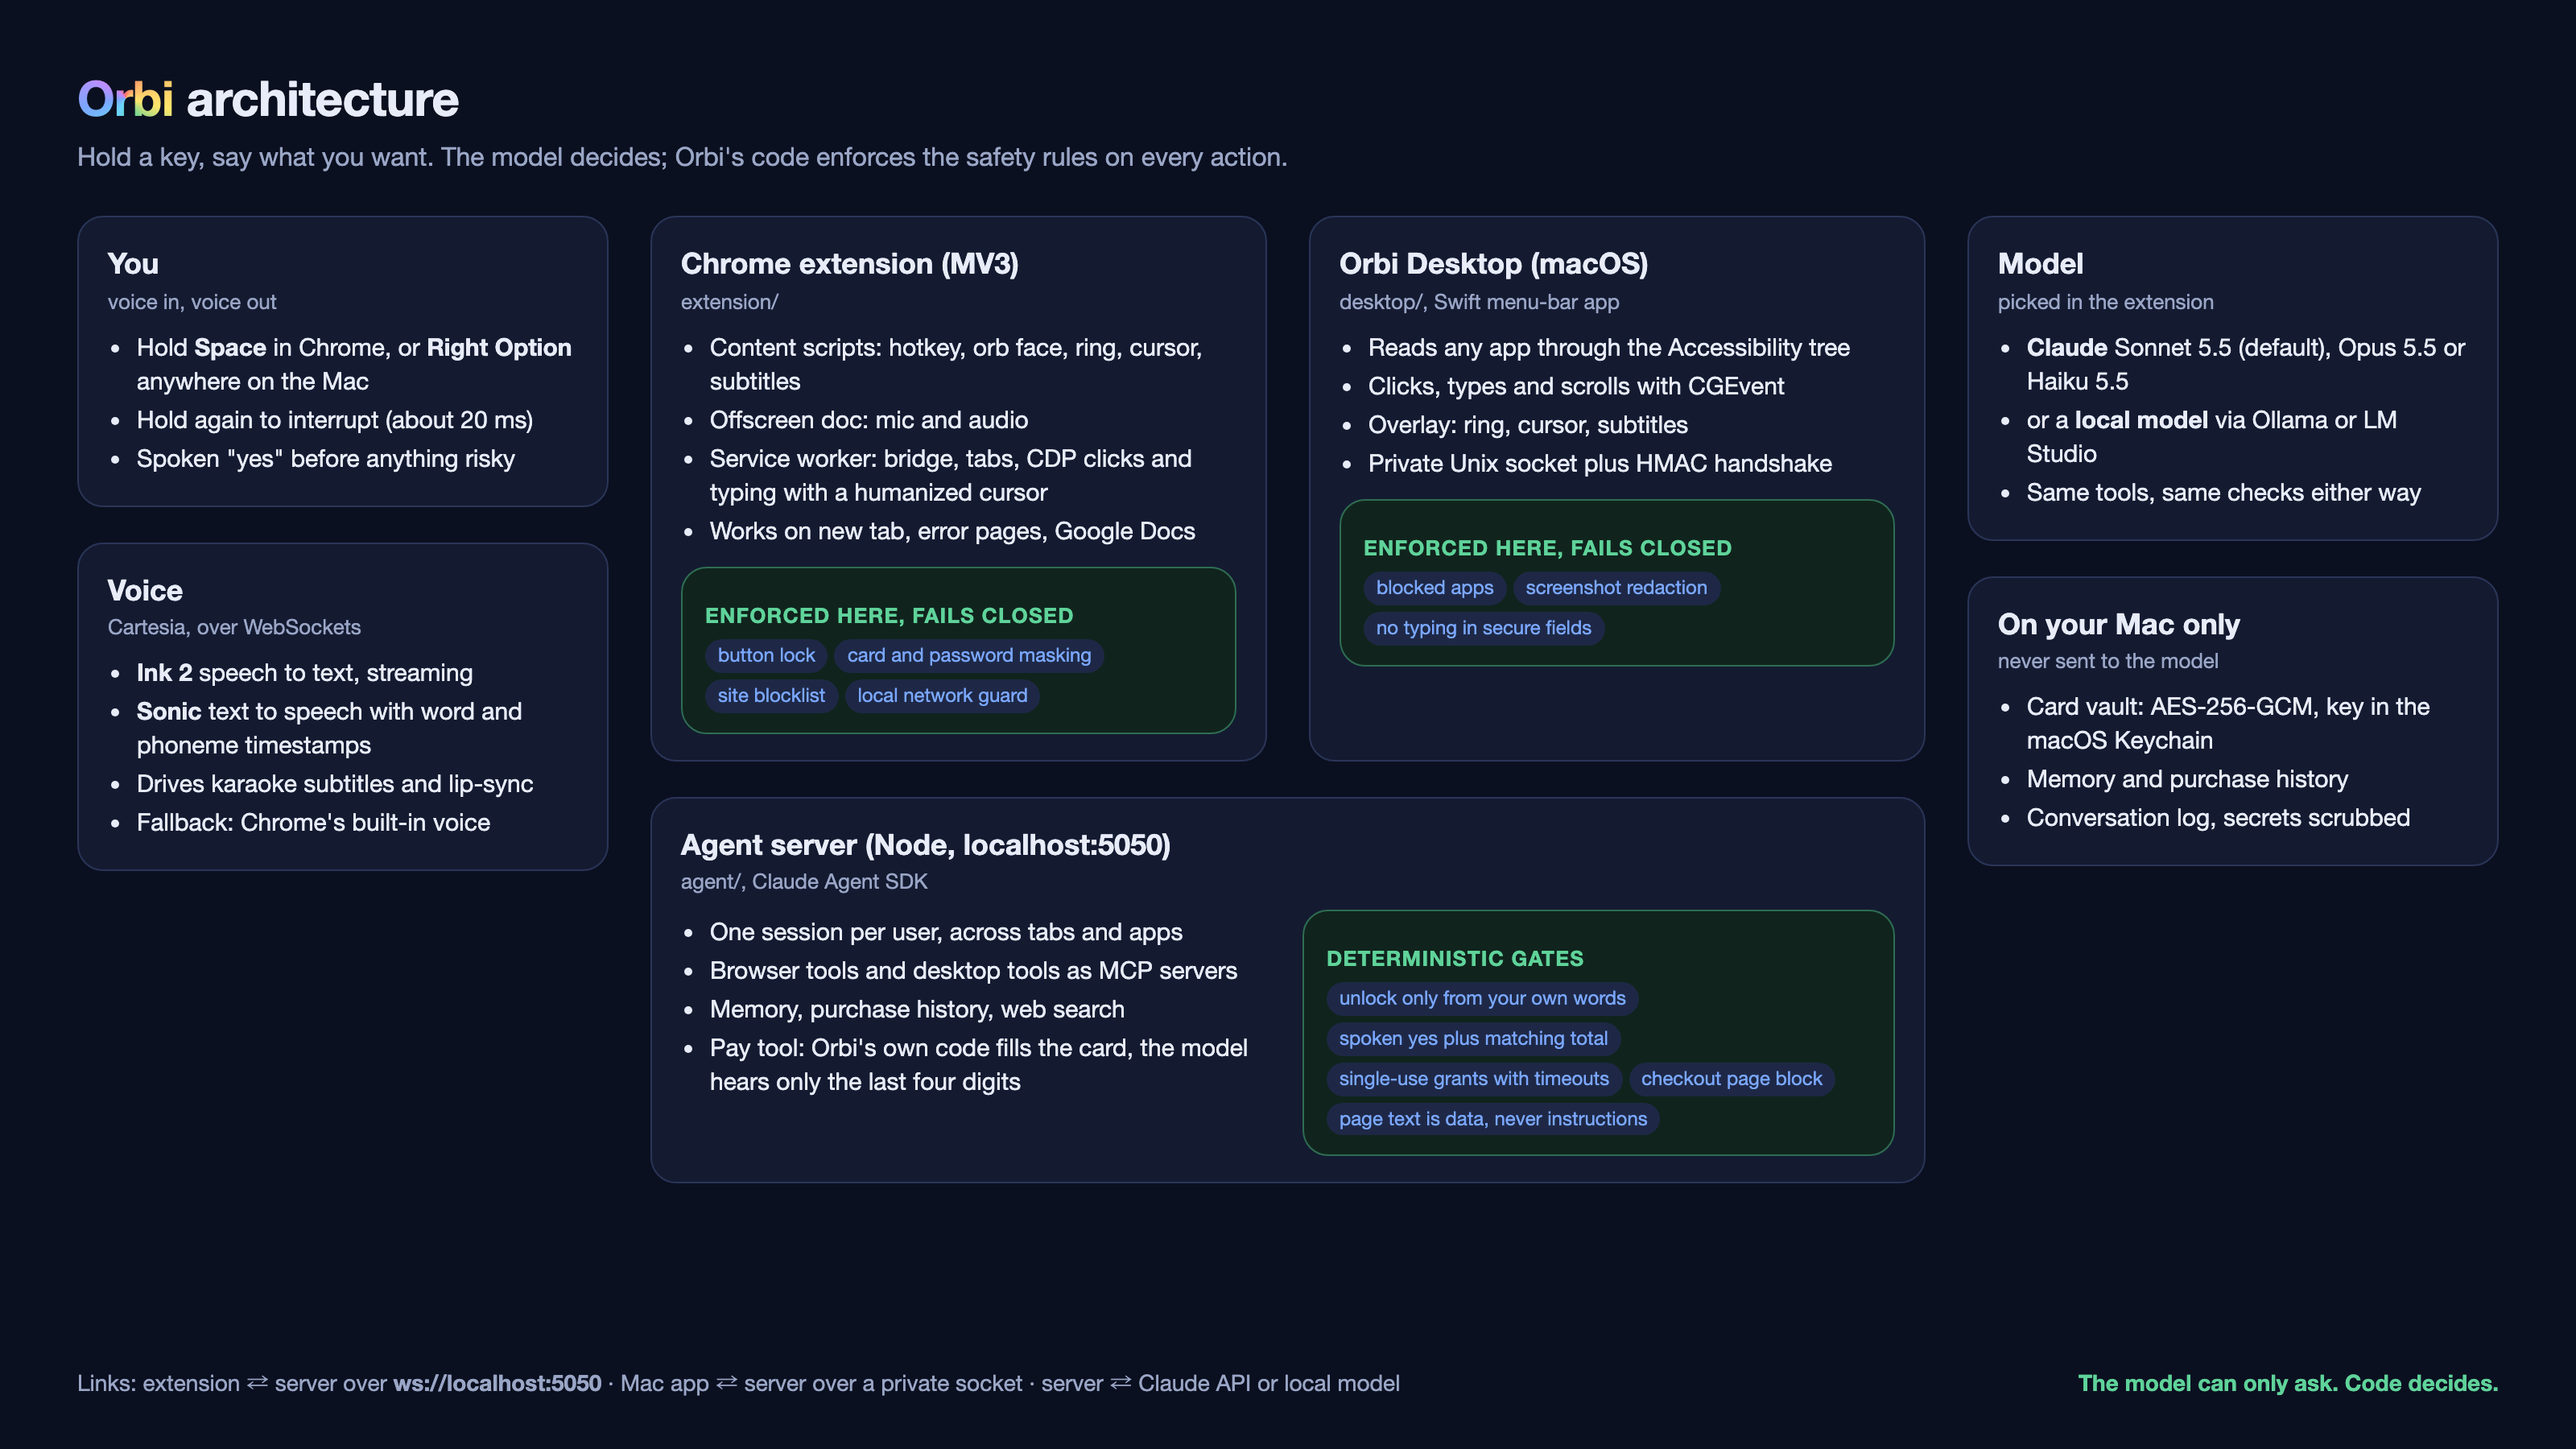
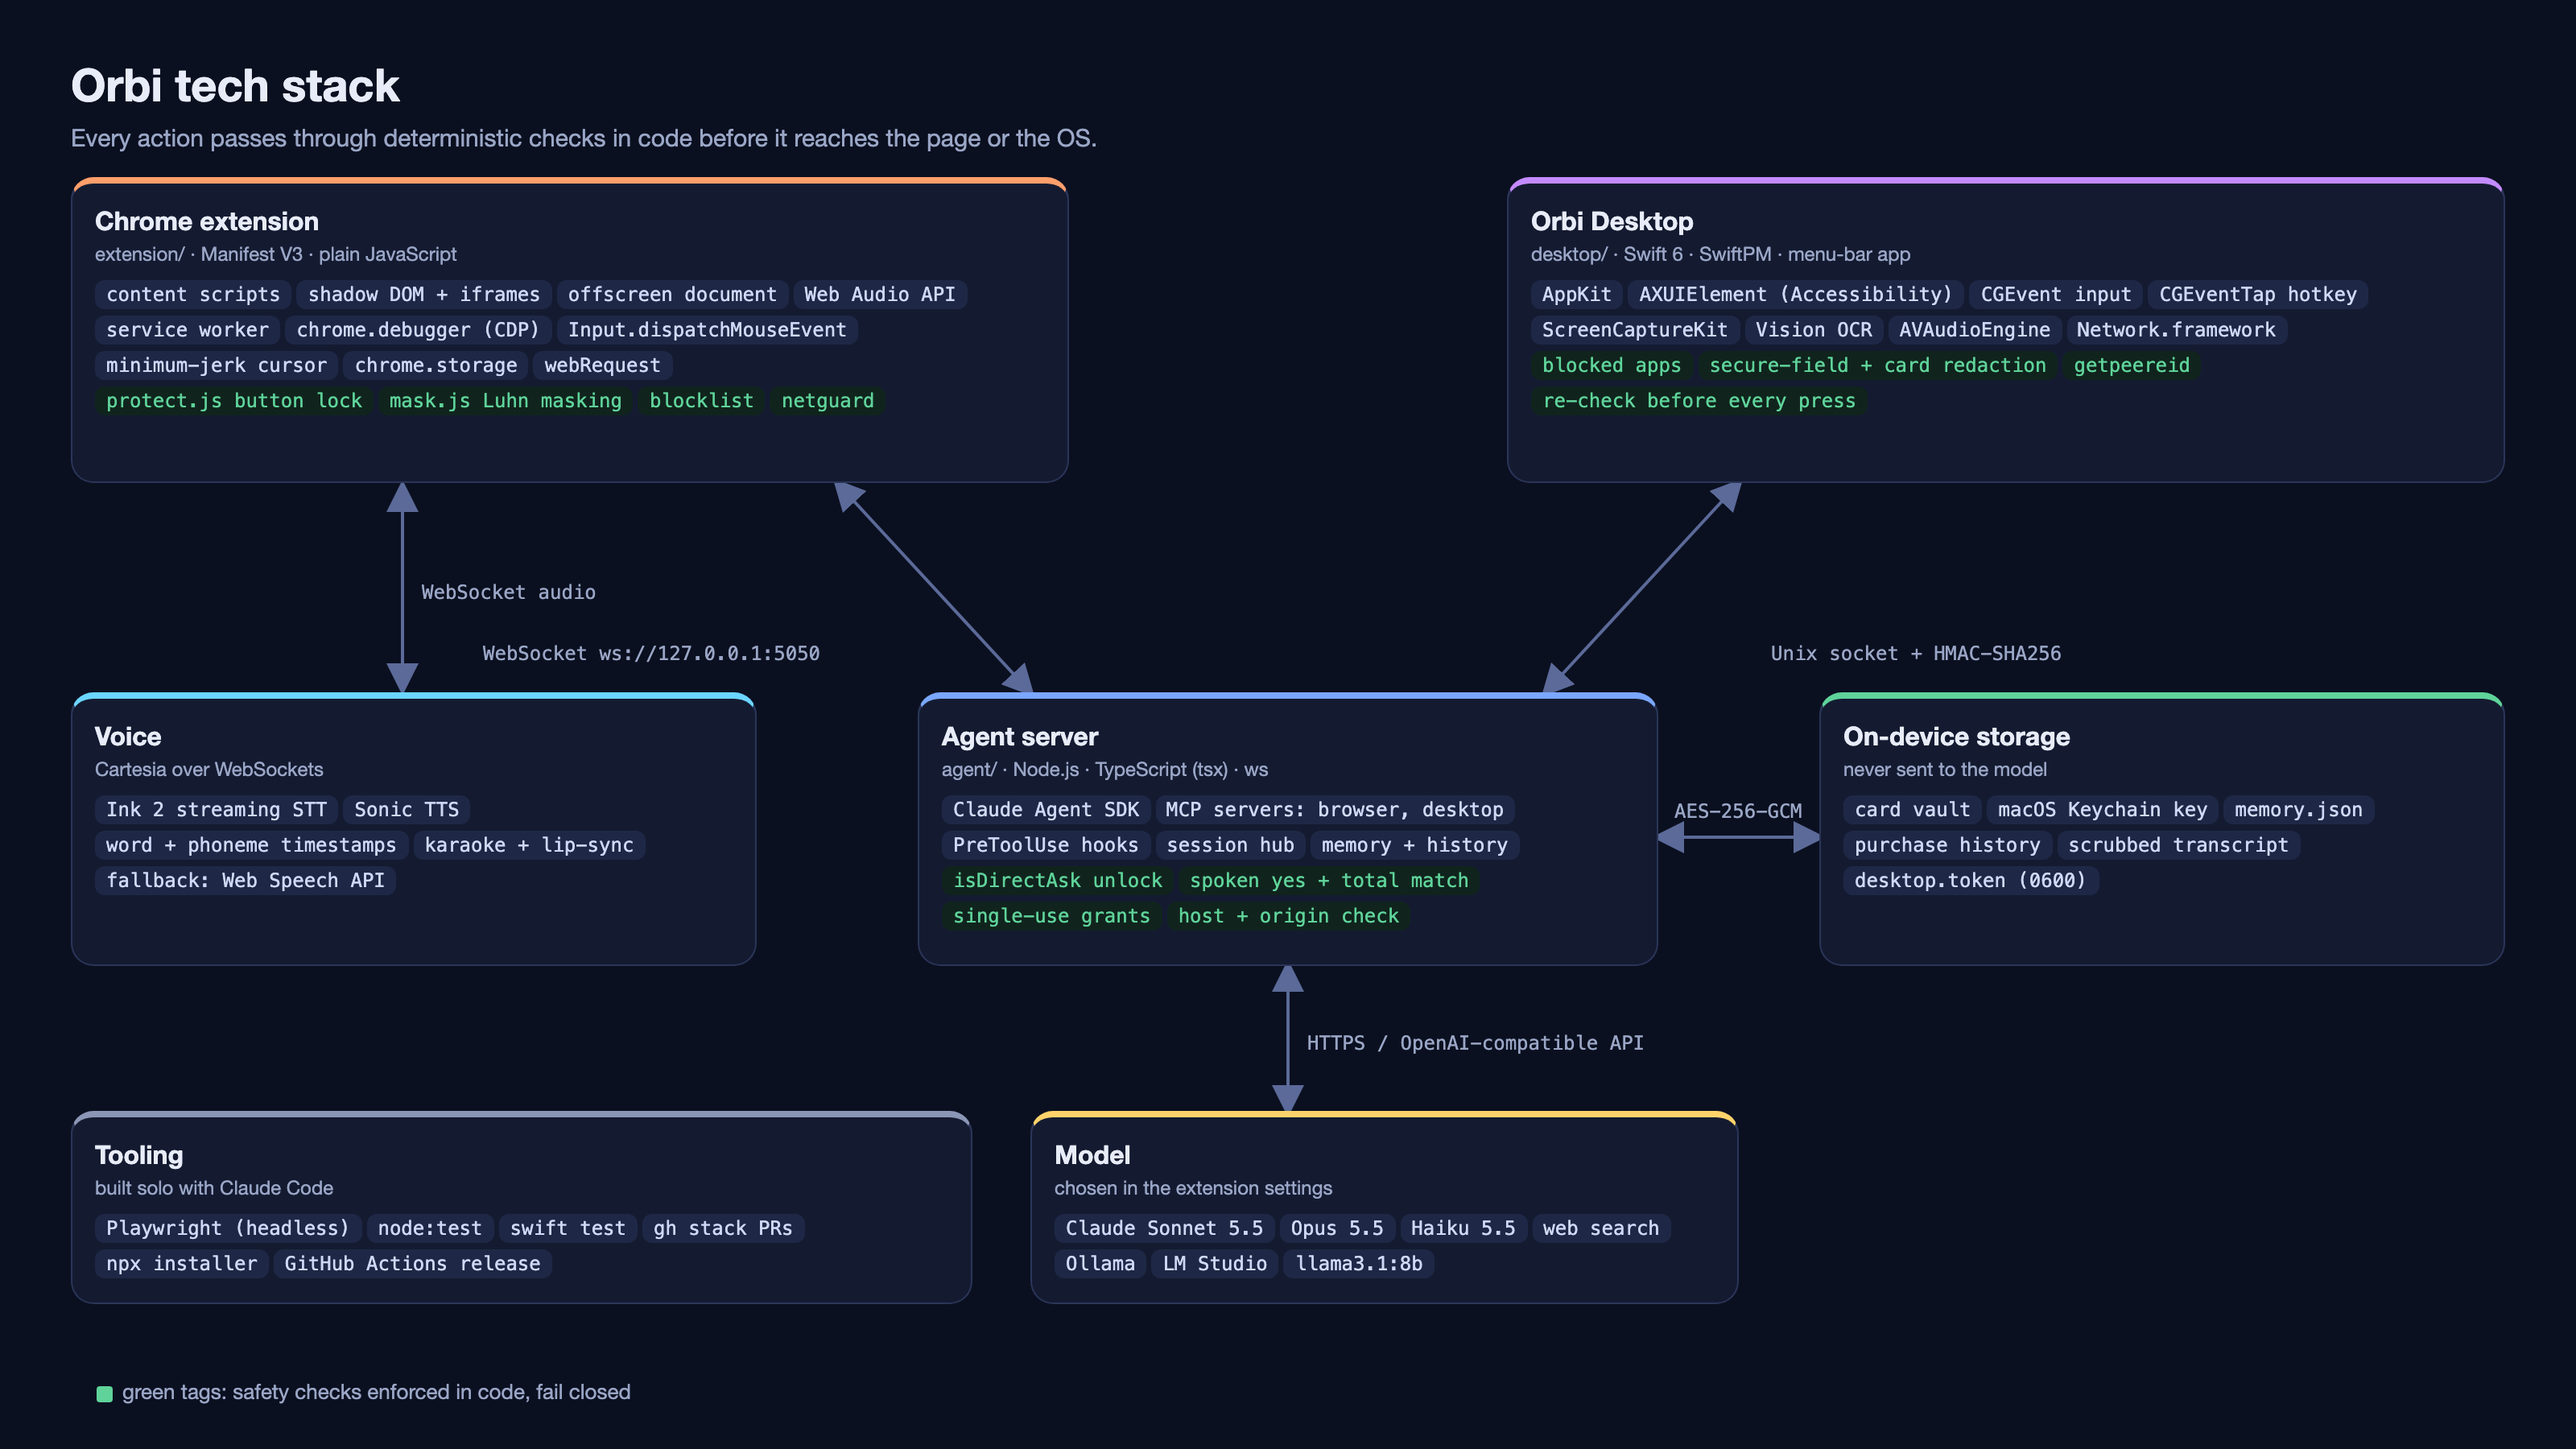
README: tech stack diagram

diff --git a/README.md b/README.md
@@ -101,7 +101,7 @@ Save a card in Orbi's settings under **Payment cards**. Orbi encrypts it on this
 
 ## How it works
 
-![Orbi architecture: you, voice, the Chrome extension, Orbi Desktop and the agent server, with the safety checks each one enforces](docs/images/architecture.png)
+![Orbi tech stack: the Chrome extension, Orbi Desktop, the agent server, voice, model and on-device storage, with the technologies and the safety checks each one enforces](docs/images/architecture.png)
 
 ```mermaid
 flowchart LR
